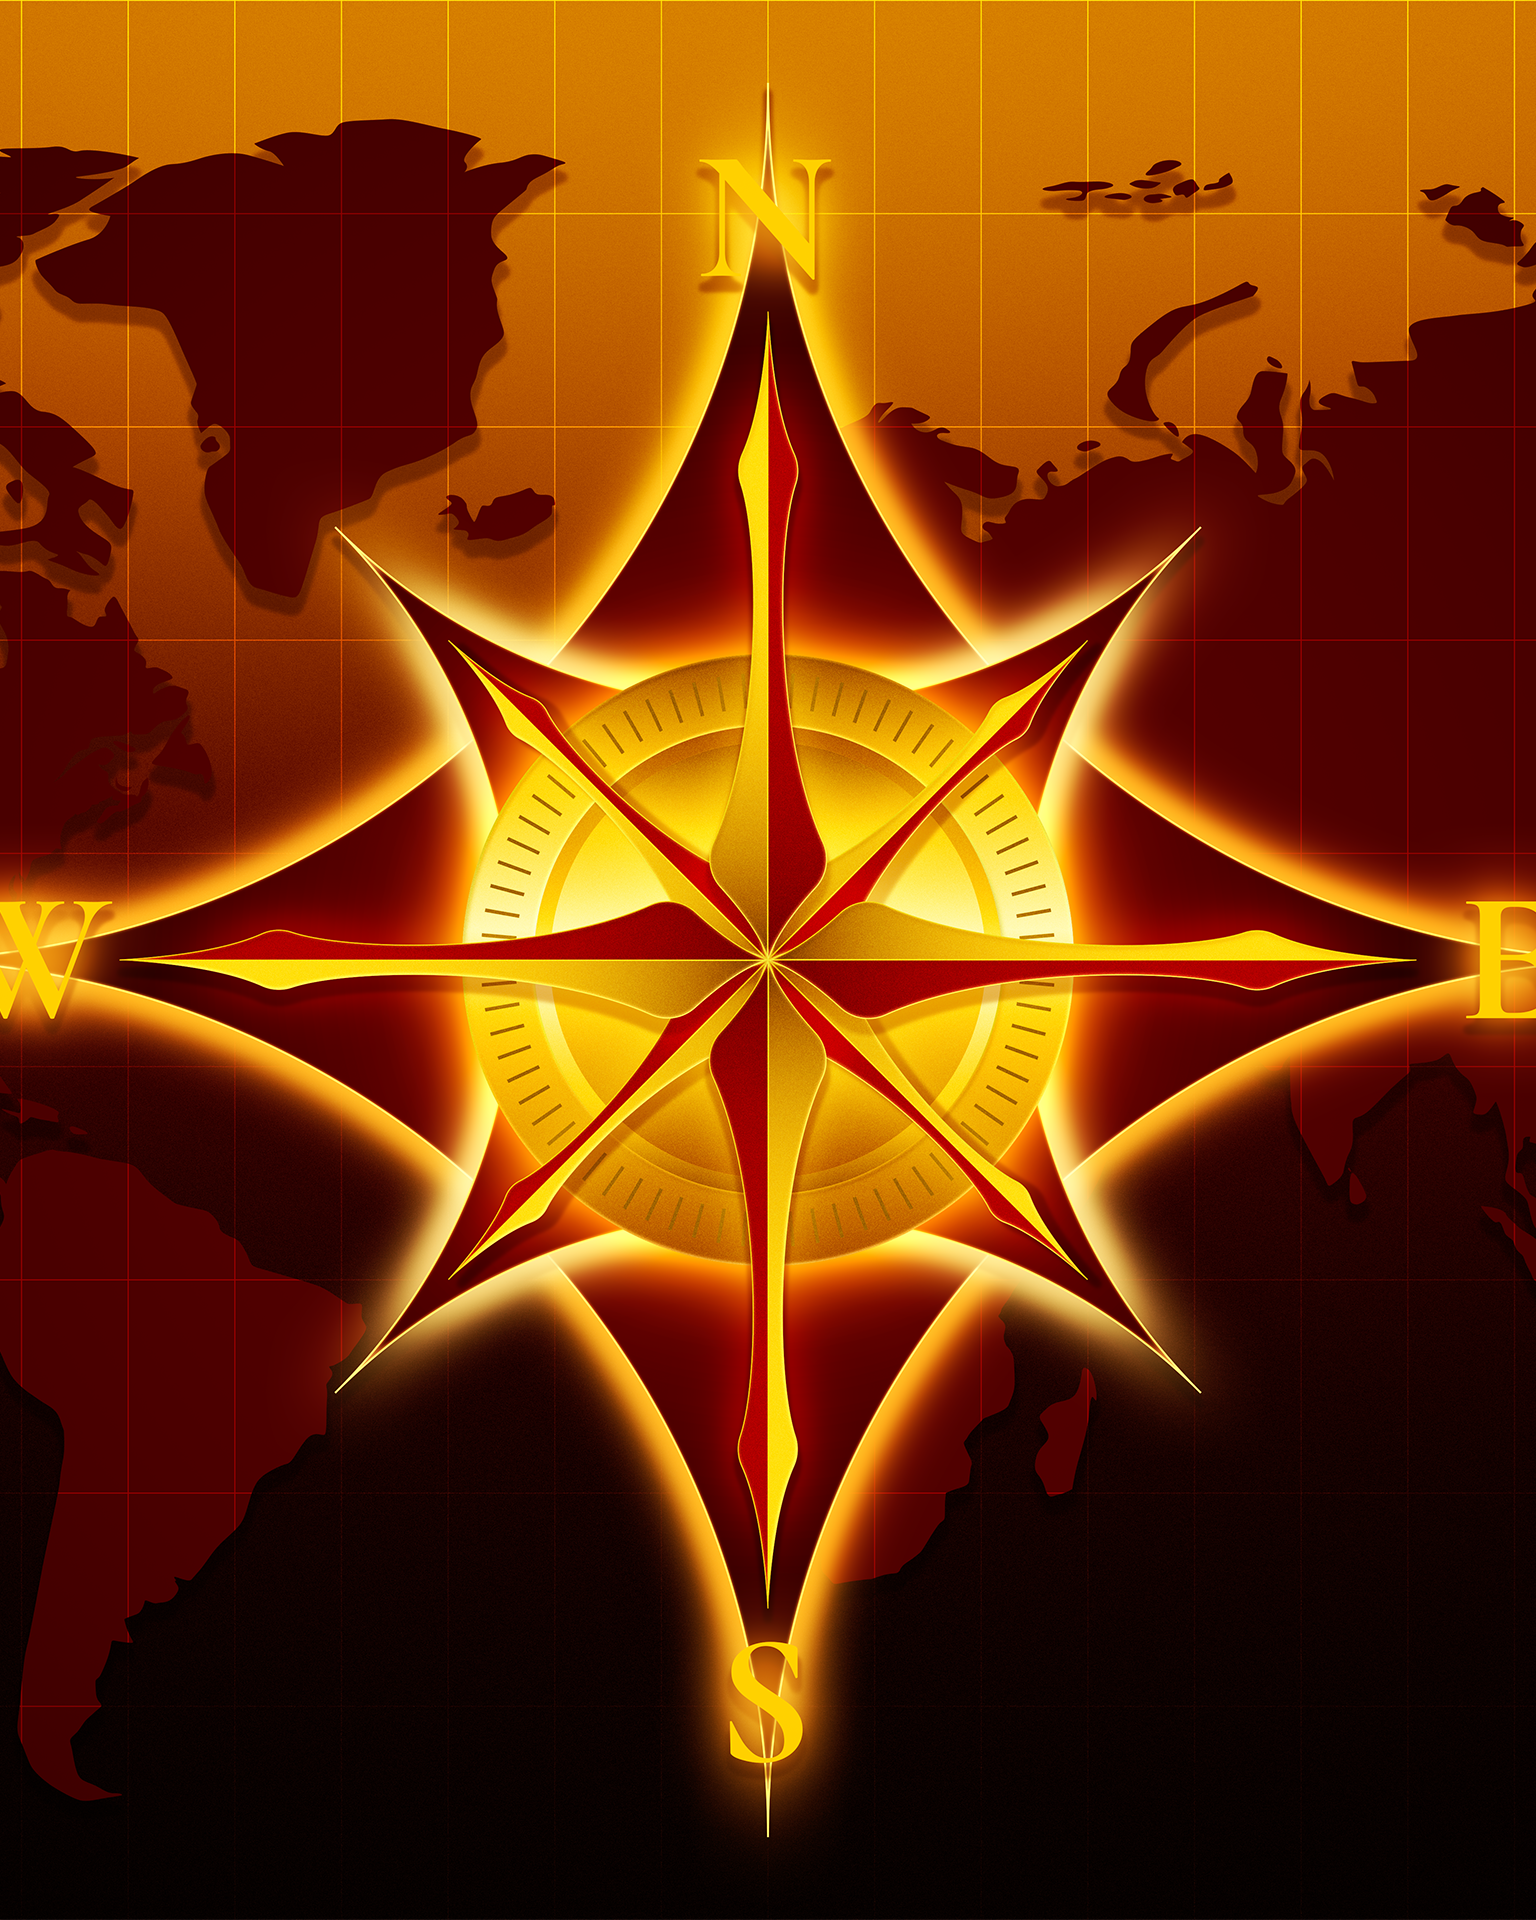
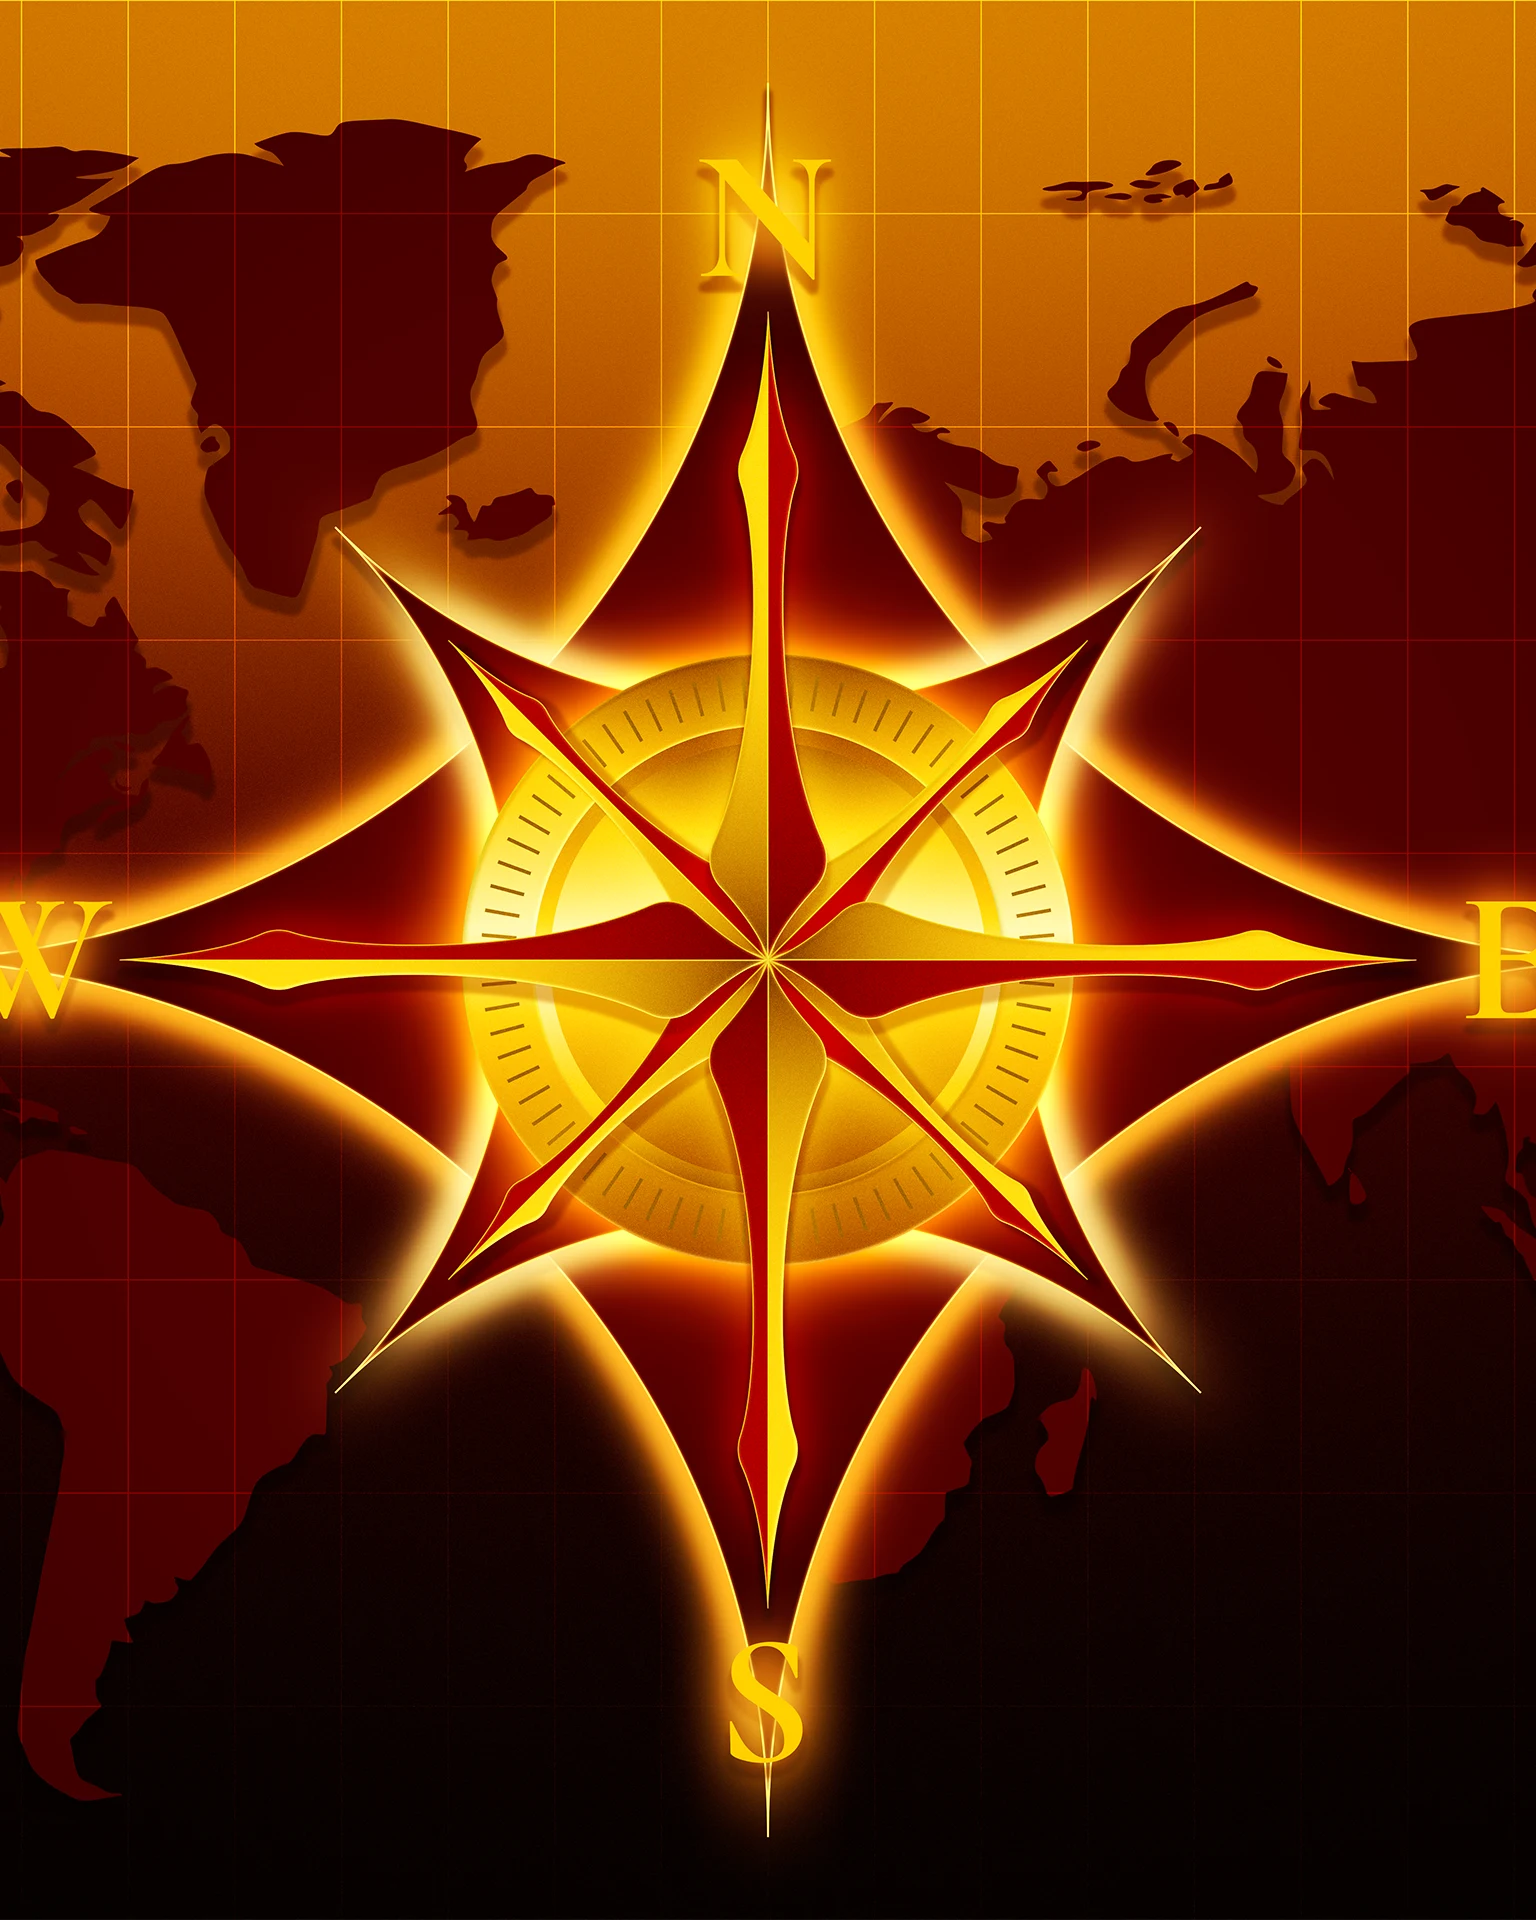
image optimization 2.1.2

Changed region(s): [[0.5, 0.5, 0.5312, 0.5312]]

diff --git a/index.html b/index.html
@@ -43,7 +43,7 @@
 
     <!-- ===== Styles & Script ===== -->
     <link rel="stylesheet" href="css/main.css?v=2026.05.27.1604">
-    <script src="js/app.js?v=2026.05.28.1816" defer></script>
+    <script src="js/app.js?v=2026.05.28.1828" defer></script>
 
     <!-- ===== Structured Data (JSON-LD) ===== -->
     <script type="application/ld+json">